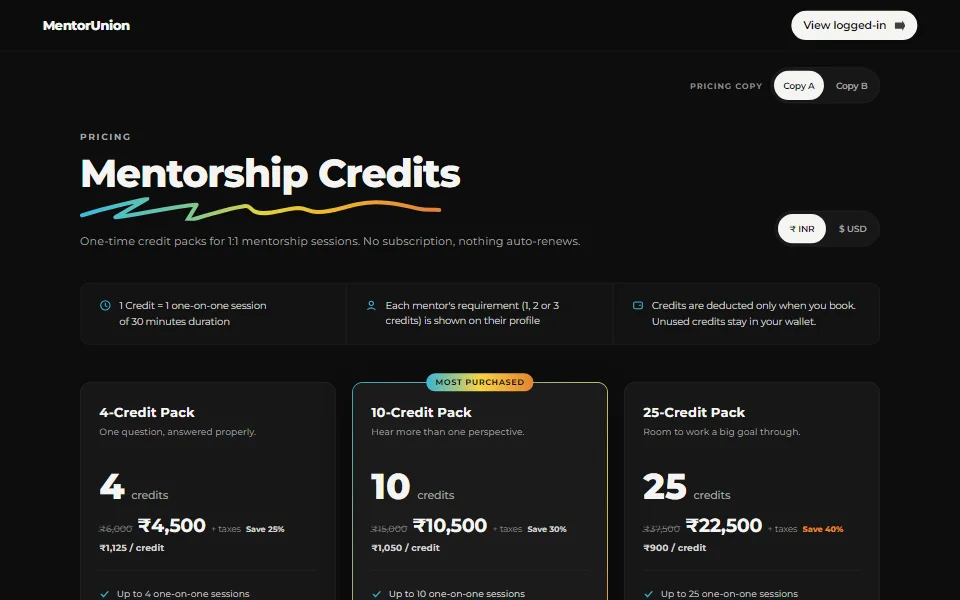
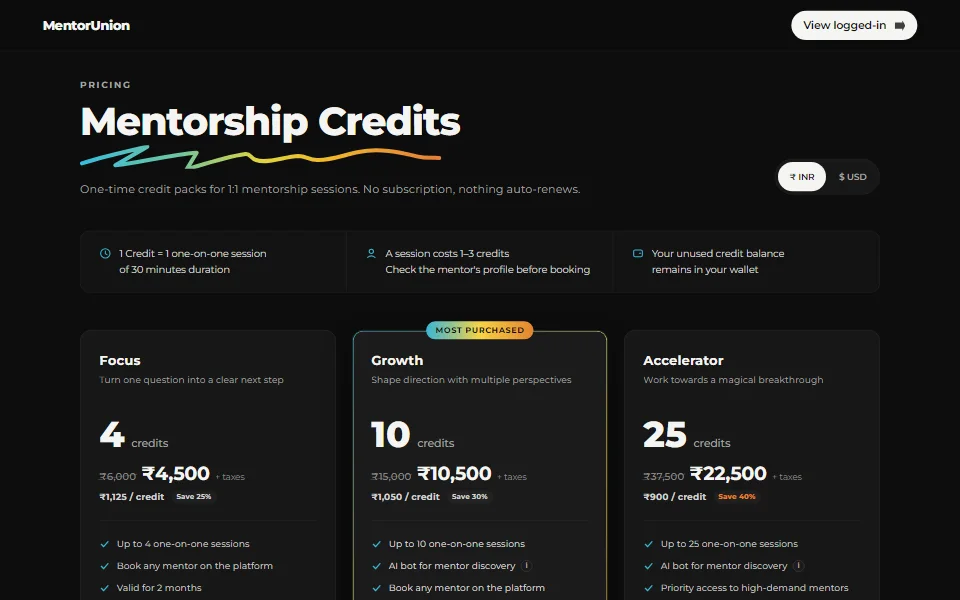
Refresh published pricing prototype

diff --git a/prototypes/proposed_pricing_unified.html b/prototypes/proposed_pricing_unified.html
@@ -32,6 +32,7 @@
       --orange: #e38330;
       --accent: linear-gradient(90deg, var(--cyan), var(--yellow), var(--orange));
       --font: "Montserrat", "Helvetica Neue", Arial, sans-serif;
+      --title-size: clamp(2.5rem, 5vw, 3.625rem);
       --content: 1200px;
       --nav-content: 1312px;
       --radius-card: 16px;
@@ -100,6 +101,9 @@
 
     .brand {
       flex: none;
+      min-height: 44px;
+      display: inline-flex;
+      align-items: center;
       font-size: 19px;
       font-weight: 800;
       letter-spacing: -.01em;
@@ -206,7 +210,7 @@
 
     h1 {
       margin: 0;
-      font-size: clamp(2.5rem, 5vw, 3.625rem);
+      font-size: var(--title-size);
       font-weight: 800;
       letter-spacing: -.02em;
       line-height: 1.05;
@@ -214,8 +218,7 @@
 
     .title-mark {
       display: block;
-      width: 542px;
-      max-width: 100%;
+      width: min(100%, calc(var(--title-size) * 542 / 58));
       height: auto;
       aspect-ratio: 542 / 35;
       margin-top: 4px;
@@ -418,16 +421,13 @@
     .price { font-size: 28px; font-weight: 700; }
     .taxes { color: var(--text-faint); font-size: 13px; }
 
-    .taxes-savings {
-      position: relative;
-      display: inline-flex;
-    }
-
     .unit-pricing {
       min-width: 0;
       min-height: 21px;
-      display: grid;
-      align-content: start;
+      display: flex;
+      align-items: center;
+      flex-wrap: wrap;
+      gap: 6px 10px;
     }
 
     .effective-rate {
@@ -464,10 +464,7 @@
     }
 
     .savings-label {
-      /* overlays the band beside .effective-rate so the price block stays tight */
-      position: absolute;
-      top: calc(100% + 5px);
-      left: 0;
+      flex: none;
       display: inline-flex;
       align-items: center;
       min-height: 19px;
@@ -817,6 +814,12 @@
 
     details[open] > summary .disclosure-icon { transform: rotate(45deg); }
     .faq-answer { max-width: 700px; padding: 0 4px 22px; color: var(--text-muted); font-size: 14.5px; line-height: 1.7; }
+    .faq-answer p { margin: 0; }
+    .faq-answer p + ul { margin-top: 10px; }
+    .faq-answer ul { margin: 0; padding-left: 18px; display: grid; gap: 7px; }
+    .faq-answer ul + p { margin-top: 12px; }
+    .faq-answer li { padding-left: 2px; }
+    .faq-answer strong { color: var(--text-soft); font-weight: 650; }
 
     .trust-line {
       margin: 56px 0 72px;
@@ -829,7 +832,7 @@
     }
 
     .trust-line span { color: var(--text-faint); font-size: 14px; }
-    .trust-line a { color: var(--text-muted); font-size: 14px; text-decoration: underline; text-underline-offset: 3px; }
+    .trust-line a { min-height: 44px; display: inline-flex; align-items: center; color: var(--text-muted); font-size: 14px; text-decoration: underline; text-underline-offset: 3px; }
 
     .site-footer { border-top: 1px solid #1c1c1c; }
     .footer-inner {
@@ -944,10 +947,12 @@
         gap: 24px;
       }
       .plan-description { min-height: 0; }
-    }
-
-    @media (min-width: 701px) and (max-width: 1023px) {
-      .plan-cta { width: min(100%, 360px); align-self: center; }
+      .custom-credits {
+        max-width: 760px;
+        margin-inline: auto;
+        grid-template-columns: minmax(0, 1fr);
+      }
+      .custom-purchase { justify-content: flex-start; }
     }
 
     @media (max-width: 1100px) {
@@ -955,6 +960,7 @@
       .plan-grid { gap: 24px; }
       .plan-card { padding: 28px 22px; }
       .plan-name { font-size: 18px; }
+      .explainer-item { padding-inline: 22px; }
       .recommendation { padding: 40px; gap: 36px; }
     }
 
@@ -1014,7 +1020,7 @@
       .page-shell, .nav-inner, .footer-inner { width: calc(100% - 40px); }
       .hero { padding-top: 36px; }
       .eyebrow { margin-bottom: 14px; font-size: 12px; }
-      h1 { font-size: clamp(2.15rem, 10.5vw, 2.75rem); }
+      :root { --title-size: clamp(2.15rem, 10.5vw, 2.75rem); }
       .hero-copy { margin-top: 16px; font-size: 15px; }
       .credit-explainer { margin-top: 28px; grid-template-columns: 1fr; }
       .explainer-item { padding: 16px 18px; border-right: 0; border-bottom: 1px solid var(--border-soft); }
@@ -1571,6 +1577,8 @@
     @media (max-width: 1023px) {
       .plan-grid { grid-template-columns: 1fr; gap: 16px; }
       .plan-card { min-height: 0; }
+      .custom-credits { grid-template-columns: 100px minmax(0, 1fr); row-gap: 18px; }
+      .custom-purchase { grid-column: 1 / -1; }
     }
 
     @media (max-width: 700px) {
@@ -1712,6 +1720,7 @@
             <button type="button" data-currency="INR" aria-pressed="true">₹ INR</button>
             <button type="button" data-currency="USD" aria-pressed="false">$ USD</button>
           </div>
+          <div class="currency-note" hidden>USD prices are rounded; final billing at checkout.</div>
         </div>
       </section>
 
@@ -1726,15 +1735,15 @@
         <div class="explainer-item">
           <svg width="18" height="18" viewBox="0 0 18 18" aria-hidden="true"><circle cx="9" cy="6" r="3.2" fill="none" stroke="#39B6D8" stroke-width="1.6"/><path d="M3.5 15 Q 9 10.5 14.5 15" fill="none" stroke="#39B6D8" stroke-width="1.6" stroke-linecap="round"/></svg>
           <span class="explainer-copy">
-            <span class="explainer-line">Call costs between 1-3 credits</span>
-            <span class="explainer-line">Check mentor's profile before booking</span>
+            <span class="explainer-line">A session costs 1–3 credits</span>
+            <span class="explainer-line">Check the mentor's profile before booking</span>
           </span>
         </div>
         <div class="explainer-item">
           <svg width="18" height="18" viewBox="0 0 18 18" aria-hidden="true"><rect x="2.5" y="4" width="13" height="10" rx="2" fill="none" stroke="#39B6D8" stroke-width="1.6"/><path d="M11 9 L13 9" stroke="#39B6D8" stroke-width="1.6" stroke-linecap="round"/></svg>
           <span class="explainer-copy">
             <span class="explainer-line">Your unused credit balance</span>
-            <span class="explainer-line">remains safe in your wallet</span>
+            <span class="explainer-line">remains in your wallet</span>
           </span>
         </div>
       </section>
@@ -1763,13 +1772,11 @@
               <div class="price-primary-line">
                 <span class="reference-total"><span class="sr-only" data-price-inr="Equivalent at the custom-credit rate: ₹6,000" data-price-usd="Equivalent at the custom-credit rate: $64">Equivalent at the custom-credit rate: ₹6,000</span><span aria-hidden="true" data-price-inr="₹6,000" data-price-usd="$64">₹6,000</span></span>
                 <span class="price" data-price-inr="₹4,500" data-price-usd="$47">₹4,500</span>
-                <div class="taxes-savings">
-                  <span class="taxes">+ taxes</span>
-                  <span class="savings-label" data-price-inr="Save 25%" data-price-usd="Save 27%">Save 25%</span>
-                </div>
+                <span class="taxes">+ taxes</span>
               </div>
               <div class="unit-pricing">
                 <span class="effective-rate"><span class="sr-only">Current effective rate: </span><span data-price-inr="₹1,125 / credit" data-price-usd="$11.75 / credit">₹1,125 / credit</span></span>
+                <span class="savings-label" data-price-inr="Save 25%" data-price-usd="Save 27%">Save 25%</span>
               </div>
             </div>
             <p class="mobile-validity">Valid for 2 months</p>
@@ -1795,19 +1802,17 @@
             <div class="plan-title-row">
               <div class="plan-name-wrap"><span class="plan-name">Growth</span></div>
             </div>
-            <p class="plan-description">Shape direction with multiple perspectivess</p>
+            <p class="plan-description">Shape direction with multiple perspectives</p>
             <div class="credit-count"><strong>10</strong><span>credits</span></div>
             <div class="price-row">
               <div class="price-primary-line">
                 <span class="reference-total"><span class="sr-only" data-price-inr="Equivalent at the custom-credit rate: ₹15,000" data-price-usd="Equivalent at the custom-credit rate: $160">Equivalent at the custom-credit rate: ₹15,000</span><span aria-hidden="true" data-price-inr="₹15,000" data-price-usd="$160">₹15,000</span></span>
                 <span class="price" data-price-inr="₹10,500" data-price-usd="$110">₹10,500</span>
-                <div class="taxes-savings">
-                  <span class="taxes">+ taxes</span>
-                  <span class="savings-label" data-price-inr="Save 30%" data-price-usd="Save 31%">Save 30%</span>
-                </div>
+                <span class="taxes">+ taxes</span>
               </div>
               <div class="unit-pricing">
                 <span class="effective-rate"><span class="sr-only">Current effective rate: </span><span data-price-inr="₹1,050 / credit" data-price-usd="$11.00 / credit">₹1,050 / credit</span></span>
+                <span class="savings-label" data-price-inr="Save 30%" data-price-usd="Save 31%">Save 30%</span>
               </div>
             </div>
             <p class="mobile-validity">Valid for 4 months</p>
@@ -1839,13 +1844,11 @@
               <div class="price-primary-line">
                 <span class="reference-total"><span class="sr-only" data-price-inr="Equivalent at the custom-credit rate: ₹37,500" data-price-usd="Equivalent at the custom-credit rate: $400">Equivalent at the custom-credit rate: ₹37,500</span><span aria-hidden="true" data-price-inr="₹37,500" data-price-usd="$400">₹37,500</span></span>
                 <span class="price" data-price-inr="₹22,500" data-price-usd="$235">₹22,500</span>
-                <div class="taxes-savings">
-                  <span class="taxes">+ taxes</span>
-                  <span class="savings-label" data-price-inr="Save 40%" data-price-usd="Save 41%">Save 40%</span>
-                </div>
+                <span class="taxes">+ taxes</span>
               </div>
               <div class="unit-pricing">
                 <span class="effective-rate"><span class="sr-only">Current effective rate: </span><span data-price-inr="₹900 / credit" data-price-usd="$9.40 / credit">₹900 / credit</span></span>
+                <span class="savings-label" data-price-inr="Save 40%" data-price-usd="Save 41%">Save 40%</span>
               </div>
             </div>
             <p class="mobile-validity">Valid for 6 months</p>
@@ -1914,27 +1917,44 @@
         <h2 class="section-title" id="faq-title">Frequently asked questions</h2>
         <details>
           <summary>What is a credit?<span class="disclosure-icon" aria-hidden="true">+</span></summary>
-          <div class="faq-answer">1 credit = one 30-minute 1:1 session with a mentor. Credits are deducted only when you book, and unused credits stay in your wallet.</div>
+          <div class="faq-answer">A credit is what you spend to book mentorship sessions. Credits leave your wallet only when you book, and unused credits stay there until they expire.</div>
         </details>
         <details>
-          <summary>Do all mentors cost the same?<span class="disclosure-icon" aria-hidden="true">+</span></summary>
-          <div class="faq-answer">No. Each mentor requires 1, 2 or 3 credits per session, based on their experience. The requirement is shown on every mentor's profile.</div>
+          <summary>How many credits does a session cost?<span class="disclosure-icon" aria-hidden="true">+</span></summary>
+          <div class="faq-answer">Each 1:1 session runs up to 30 minutes and costs 1–3 credits, depending on the mentor. The exact cost is shown on the mentor's profile before you book.</div>
         </details>
         <details>
           <summary>How long are credits valid?<span class="disclosure-icon" aria-hidden="true">+</span></summary>
-          <div class="faq-answer">The 4-credit pack is valid for 2 months with no rollover. The 10-credit pack is valid for 4 months plus a 15-day rollover, and the 25-credit pack is valid for 6 months plus a 30-day rollover. Custom credits are valid for 60 days. Credits expiring soonest are used first; buying another pack does not extend existing credits beyond the stated rollover.</div>
+          <div class="faq-answer">
+            <p>Validity is counted from the purchase date:</p>
+            <ul>
+              <li><strong>Focus (4 credits)</strong> — 2 months, no rollover</li>
+              <li><strong>Growth (10 credits)</strong> — 4 months, plus 15-day rollover</li>
+              <li><strong>Accelerator (25 credits)</strong> — 6 months, plus 30-day rollover</li>
+              <li><strong>Custom credits</strong> — 60 days</li>
+            </ul>
+            <p>Credits expiring soonest are used first. Buying another pack does not extend credits you already hold beyond their stated rollover.</p>
+          </div>
         </details>
         <details>
           <summary>Is this a subscription?<span class="disclosure-icon" aria-hidden="true">+</span></summary>
-          <div class="faq-answer">No. Every pack is a one-time purchase. Nothing renews automatically.</div>
+          <div class="faq-answer">No. Every pack is a one-time purchase — nothing renews and you're never charged automatically.</div>
         </details>
         <details>
           <summary>What happens if I cancel a session?<span class="disclosure-icon" aria-hidden="true">+</span></summary>
-          <div class="faq-answer">Cancel at least 24 hours before a session and your credits return to your wallet. Cancellations within 24 hours use the credits. If a mentor cancels or doesn't show up, your credits are returned along with 1 bonus credit.</div>
+          <div class="faq-answer">
+            <p>It depends on when you cancel:</p>
+            <ul>
+              <li><strong>12+ hours before</strong> — your credit returns to your wallet with its original validity</li>
+              <li><strong>Within 12 hours</strong> — the credit is used, unless your mentor waives it</li>
+              <li><strong>Mentor cancels or doesn't show</strong> — your credit returns with extended validity</li>
+            </ul>
+            <p>For sessions booked less than 24 hours ahead, the cutoff is the halfway point between booking time and session start time.</p>
+          </div>
         </details>
         <details>
           <summary>How do I pay?<span class="disclosure-icon" aria-hidden="true">+</span></summary>
-          <div class="faq-answer">Payments are processed securely by Razorpay. Cards and UPI are supported. Prices are shown plus taxes; the exact amount appears at checkout.</div>
+          <div class="faq-answer">Cards and UPI, processed securely by Razorpay. Prices are shown plus taxes; the exact total appears at checkout before you pay.</div>
         </details>
       </section>
 